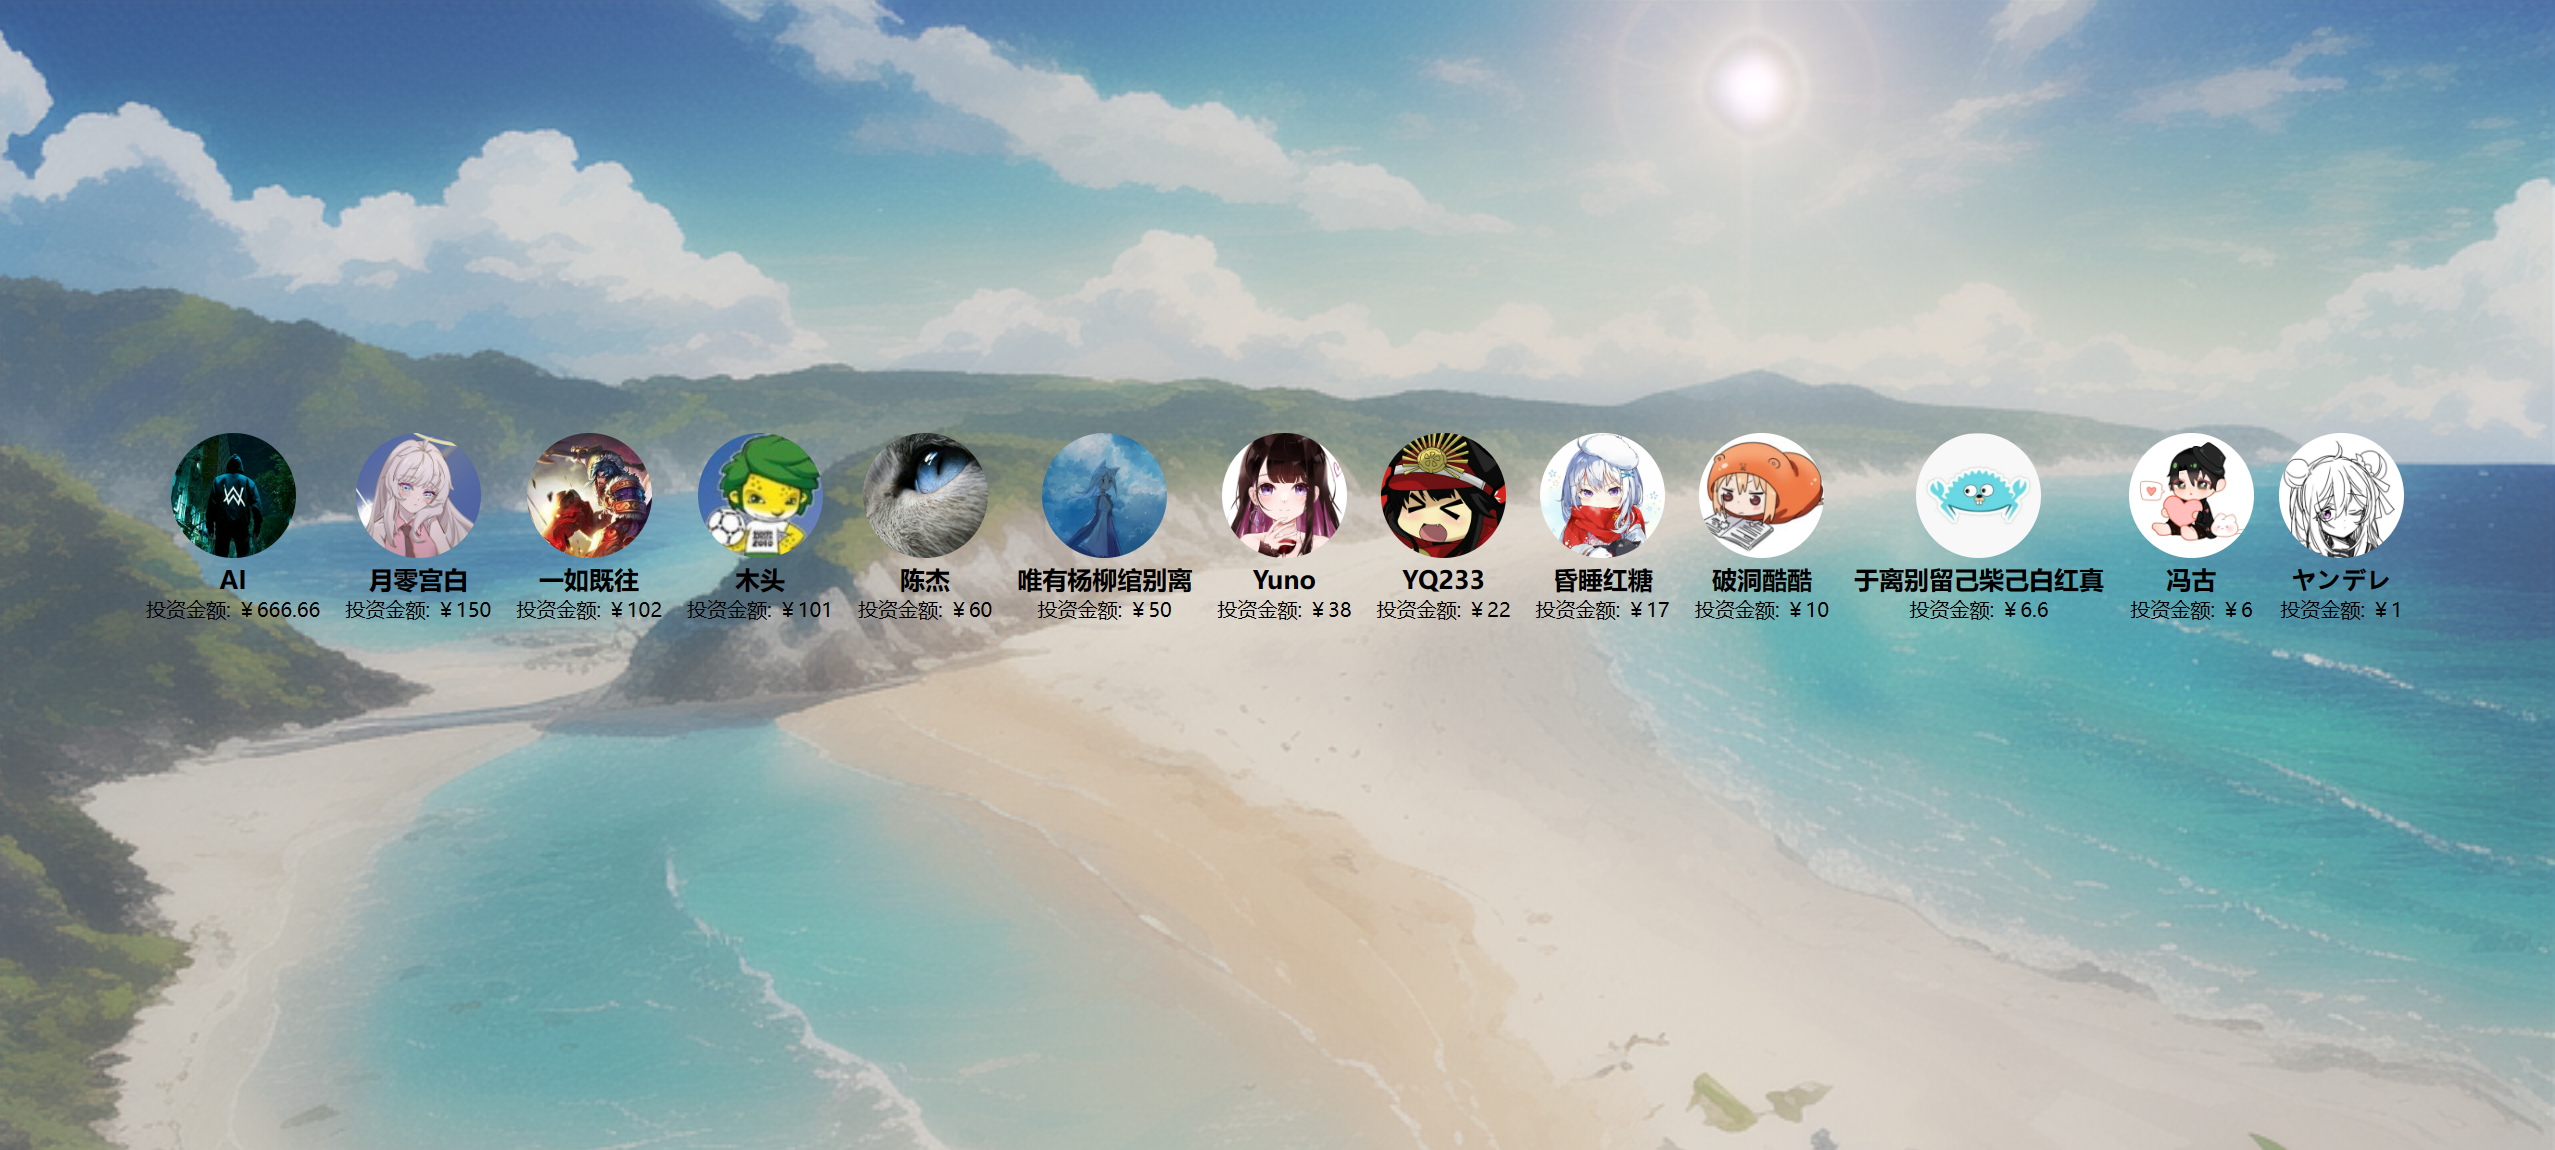
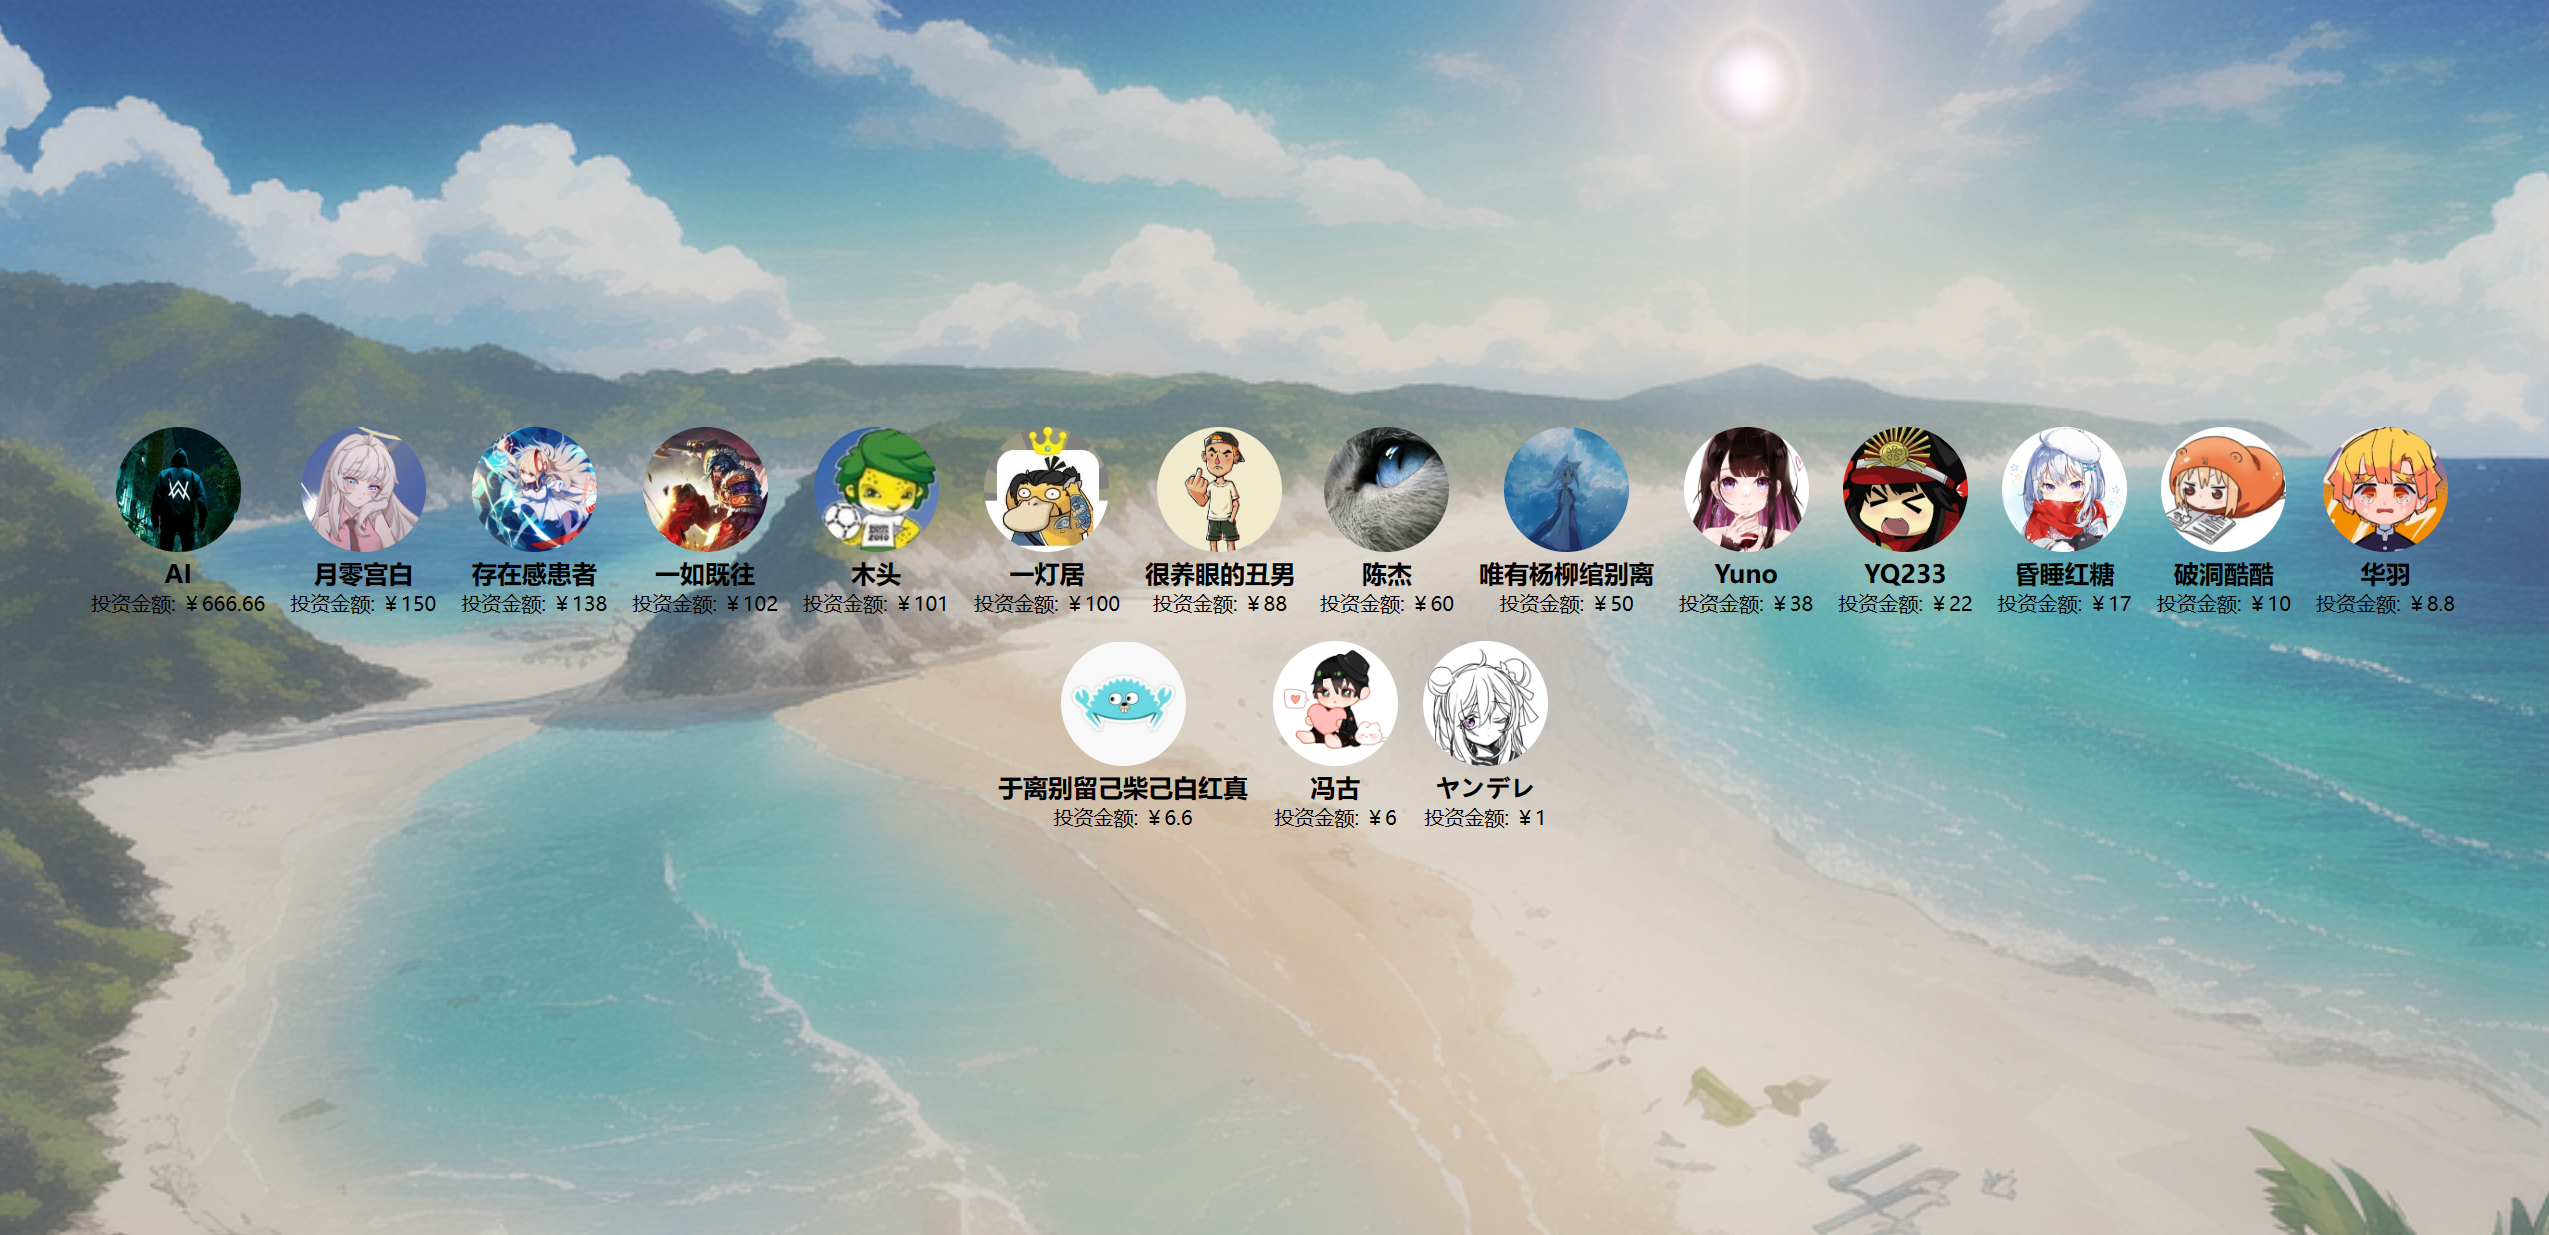
更新投资人信息

diff --git a/docs/投资人/index.html b/docs/投资人/index.html
@@ -62,6 +62,11 @@
             amount: "￥150"
         },
         {
+            name: "存在感患者",
+            avatar: "https://images.cnblogs.com/cnblogs_com/ikaros-521/2328032/o_230722160559_QQ%E5%9B%BE%E7%89%8720230722234802.jpg",
+            amount: "￥138"
+        },
+        {
             name: "一如既往",
             avatar: "https://images.cnblogs.com/cnblogs_com/ikaros-521/2328032/o_230719123315_%E4%B8%80%E5%A6%82%E6%97%A2%E5%BE%80.jpg",
             amount: "￥102"
@@ -70,6 +75,16 @@
             name: "木头",
             avatar: "https://images.cnblogs.com/cnblogs_com/ikaros-521/2328032/o_230719075505_%E6%9C%A8%E5%A4%B4.jpg",
             amount: "￥101"
+        },
+        {
+            name: "一灯居",
+            avatar: "https://images.cnblogs.com/cnblogs_com/ikaros-521/2328032/o_230722162512_QQ%E5%9B%BE%E7%89%8720230723002456.jpg",
+            amount: "￥100"
+        },
+        {
+            name: "很养眼的丑男",
+            avatar: "https://images.cnblogs.com/cnblogs_com/ikaros-521/2328032/o_230722162732_QQ%E5%9B%BE%E7%89%8720230723000544.jpg",
+            amount: "￥88"
         },
         {
             name: "陈杰",
@@ -100,6 +115,11 @@
             name: "破洞酷酷",
             avatar: "https://images.cnblogs.com/cnblogs_com/ikaros-521/2328032/o_230719124148_QQ%E5%9B%BE%E7%89%8720230719204131.jpg",
             amount: "￥10"
+        },
+        {
+            name: "华羽",
+            avatar: "https://images.cnblogs.com/cnblogs_com/ikaros-521/2328032/o_230722163359_QQ%E5%9B%BE%E7%89%8720230722234807.jpg",
+            amount: "￥8.8"
         },
         {
             name: "于离别留己柴己白红真",
